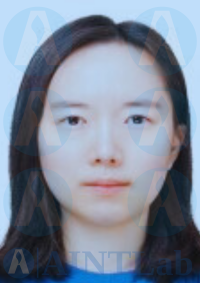
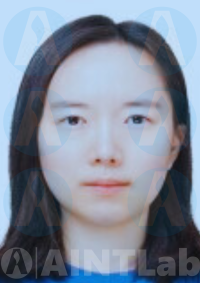
Replace images
Switched image assets and references from .webp and .jpg formats to .png for better compatibility and consistency across the site.

Changed region(s): [[0.0, 0.8763, 1.0, 0.9894]]

diff --git a/docusaurus.config.js b/docusaurus.config.js
@@ -51,7 +51,7 @@ const config = {
       {name: 'keywords', content: 'Applied Intelligence Lab, AINTLab, AI research publications, artificial intelligence papers, machine learning publications, deep learning research, IoT research, RFID in supply chain, sustainable agriculture papers, self-supervised learning, self-organizing maps, vessel detection, human action recognition, transformer models, agricultural technology research, AgriTech publications, predictive analytics papers, AI for agriculture, AI-powered innovation, scientific articles, AI in agriculture, academic publications, AI research, machine learning, deep learning, artificial intelligence lab, IoT, RFID, sustainable agriculture, satellite imagery, AI-powered solutions, food security, agricultural data analysis, AgriTech solutions, AI innovation, Applied INTelligence Lab (AINTLab), Department of Artificial Intelligence and Data Science, Sejong University, Seoul 05006, Republic of Korea'},
       {name: 'twitter:card', content: 'Applied INTelligence Lab (AINTLab) - AINTLab is not only a laboratory but also a playground to learn and explore things related to applied intelligence. We explore the frontier of artificial intelligence, data science, and intelligent systems. We design AI-driven solutions that connect systems, enhance communication, and promote sustainability. Through collaboration across academia and industry, we aim to build systems that shape a smarter, more connected world. AINTLab is a hub for learning and innovation in applied intelligence and IoT. Pioneering Artificial Intelligence research, AINTLab focuses on machine learning, deep learning, IoT, and self-supervised learning. Our expertise drives agricultural innovation, vessel detection, human action recognition, and predictive analytics, promoting sustainable agriculture and global food security. Explore our extensive collection of research publications on AI, machine learning, IoT, and sustainable agriculture, featuring groundbreaking work on transformer models, predictive analytics, and more.'},
       {name: 'description', content: 'Applied INTelligence Lab (AINTLab) - AINTLab is not only a laboratory but also a playground to learn and explore things related to applied intelligence. We explore the frontier of artificial intelligence, data science, and intelligent systems. We design AI-driven solutions that connect systems, enhance communication, and promote sustainability. Through collaboration across academia and industry, we aim to build systems that shape a smarter, more connected world. AINTLab is a hub for learning and innovation in applied intelligence and IoT. Pioneering Artificial Intelligence research, AINTLab focuses on machine learning, deep learning, IoT, and self-supervised learning. Our expertise drives agricultural innovation, vessel detection, human action recognition, and predictive analytics, promoting sustainable agriculture and global food security. Explore our extensive collection of research publications on AI, machine learning, IoT, and sustainable agriculture, featuring groundbreaking work on transformer models, predictive analytics, and more.'},
-      {name: 'og:image',content: 'https://aintlab.com/img/social-media.webp'},
+      {name: 'og:image',content: 'https://aintlab.com/img/aintlab-social-media.png'},
     
     ],
     headTags: [
@@ -107,8 +107,8 @@ const config = {
         title: '',
         logo: {
           alt: 'AINTLab is not only a laboratory but also a playground to learn and explore things related to applied intelligence. We explore the frontier of artificial intelligence, data science, and intelligent systems. We design AI-driven solutions that connect systems, enhance communication, and promote sustainability. Through collaboration across academia and industry, we aim to build systems that shape a smarter, more connected world.',
-          src: '/img/research.svg',
-          srcDark: '/img/research-dark.svg',
+          src: '/img/research.png',
+          srcDark: '/img/research-dark.png',
         },
         items: [
           {
@@ -150,7 +150,7 @@ const config = {
       },
       footer: {
         style: 'dark',
-        copyright: `<div class="navbar__logo"><img src="/img/research-dark.svg" alt="Applied INTelligence Lab (AINTLab)"></div>(🇰🇷) Applied INTelligence Lab (AINTLab), Seoul 05006, Republic of Korea | (🇮🇩) Applied INTelligence Lab (AINTLab), Yogyakarta 55187, Indonesia.
+        copyright: `(🇰🇷) Applied INTelligence Lab (AINTLab), Seoul 05006, Republic of Korea | (🇮🇩) Applied INTelligence Lab (AINTLab), Yogyakarta 55187, Indonesia.
         <br/>
         E-mail: hello [at] aintlab.com | Phone: 02-3408-1879<br/>
         <a href="/" style="color:white">Home</a> / <a href="/team" style="color:white">The Team</a> / <a href="/projects" style="color:white">Projects</a> / <a href="/publications" style="color:white">Publications</a> / <a href="/updates" style="color:white">Updates</a> / <a href="/contact" style="color:white">Contact</a> | Follow us on <a class="link" href="https://www.linkedin.com/company/aintlab" target="_blank" data-tippy-content="LinkedIn">
@@ -159,8 +159,8 @@ const config = {
               <path d="M20.447 20.452h-3.554v-5.569c0-1.328-.027-3.037-1.852-3.037-1.853 0-2.136 1.445-2.136 2.939v5.667H9.351V9h3.414v1.561h.046c.477-.9 1.637-1.85 3.37-1.85 3.601 0 4.267 2.37 4.267 5.455v6.286zM5.337 7.433c-1.144 0-2.063-.926-2.063-2.065 0-1.138.92-2.063 2.063-2.063 1.14 0 2.064.925 2.064 2.063 0 1.139-.925 2.065-2.064 2.065zm1.782 13.019H3.555V9h3.564v11.452zM22.225 0H1.771C.792 0 0 .774 0 1.729v20.542C0 23.227.792 24 1.771 24h20.451C23.2 24 24 23.227 24 22.271V1.729C24 .774 23.2 0 22.222 0h.003z"></path>
             </svg>
           </a><br/> 
-        Copyright © 2019-${new Date().getFullYear()} <a href="https://aintlab.com/" style="color:white">Applied INTelligence Lab (AINTLab)</a>; Lead by <a href="https://muhammadsyafrudin.com/" style="color:white"target="_blank">Muhammad Syafrudin</a>. Built with Docusaurus.
-        `,
+        Copyright © 2019-${new Date().getFullYear()} <a href="/" style="color:white">Applied INTelligence Lab (AINTLab)</a>; Lead by <a href="https://muhammadsyafrudin.com/" style="color:white"target="_blank">Muhammad Syafrudin</a>. Built with Docusaurus.
+        <div class="navbar__logo"><img src="/img/research-dark.png" alt="Applied INTelligence Lab (AINTLab)"></div>`,
       },
       prism: {
         theme: lightCodeTheme,

diff --git a/src/components/FeaturedPapers/index.js b/src/components/FeaturedPapers/index.js
@@ -7,7 +7,7 @@ import Link from '@docusaurus/Link';
 const FeatureList = [
   {
     title: 'FLTrans-Net: Transformer-based feature learning network for wheat head detection',
-    img_url: "img/wheat.webp",
+    img_url: "img/wheat.png",
     doi: "https://doi.org/10.1016/j.compag.2024.109706",
     outlet: "Published in Computers and Electronics in Agriculture (Elsevier, 2025) - SCIE (Q1); IF=8.9; Rank=2/94; IF(%)=1.6%.",
     description: (
@@ -22,7 +22,7 @@ const FeatureList = [
   },
   {
     title: 'AE-BPNN: autoencoder and backpropagation neural network-based model for lithium-ion battery state of health estimation',
-    img_url: "img/battery.webp",
+    img_url: "img/battery.png",
     doi: "https://doi.org/10.1038/s41598-025-12771-4",
     outlet: "Published in Scientific Reports (Nature Portfolio, 2025) - SCIE (Q1); IF=3.9; Rank=25/136; IF(%)=18.0%.",
     description: (
@@ -38,7 +38,7 @@ const FeatureList = [
   },
   {
     title: 'Tweeting Circular Economy: Unveiling Current Discourse Through Natural Language Processing',
-    img_url: "img/circulareconomy.webp",
+    img_url: "img/circulareconomy.png",
     doi: "https://doi.org/10.1002/sd.3323",
     outlet: "Published in Sustainable Development (Wiley, 2025) - SSCI (Q1); IF=9.9; Rank=1/63; IF(%)=0.8%.",
     description: (

diff --git a/src/components/LogoSlider/index.js b/src/components/LogoSlider/index.js
@@ -14,18 +14,18 @@ const LOGOS = [
   { src: '/img/logos/curtin.png', alt: 'Curtin' },
   { src: '/img/logos/ubd.png', alt: 'UBD' },
   { src: '/img/logos/undip.png', alt: 'UNDIP' },
-  { src: '/img/logos/dongguk.jpg', alt: 'Dongguk' },
+  { src: '/img/logos/dongguk.png', alt: 'Dongguk' },
   { src: '/img/logos/karabuk.png', alt: 'Karabuk' },
   { src: '/img/logos/itu.png', alt: 'ITU' },
   { src: '/img/logos/isu.png', alt: 'ISU' },
   { src: '/img/logos/gscwu.png', alt: 'GSCWU' },
-  { src: '/img/logos/hitec.jpg', alt: 'HITEC' },
+  { src: '/img/logos/hitec.png', alt: 'HITEC' },
   { src: '/img/logos/uinsuka.png', alt: 'UINSUKA' },
   { src: '/img/logos/bnu.png', alt: 'BNU' },
   { src: '/img/logos/ntust.png', alt: 'NTUST' },
-  { src: '/img/logos/kfueit.jpg', alt: 'kfueit' },
+  { src: '/img/logos/kfueit.png', alt: 'kfueit' },
   { src: '/img/logos/brin.png', alt: 'BRIN' },
-  { src: '/img/logos/aintlab.jpg', alt: 'AINTLab' },
+  { src: '/img/logos/aintlab.png', alt: 'AINTLab' },
 ];
 
 

diff --git a/src/components/CollaborateWithUs/index.js b/src/components/CollaborateWithUs/index.js
@@ -29,7 +29,7 @@ const MissionVisionList = [
       <>
       <em>Our collaboration map from the past five years.</em>
       <br/>
-      <Link to="https://sejong.elsevierpure.com/en/persons/muhammad-syafrudin/network-map#network-map-container"><img loading="lazy" alt="Our collaboration map from the past five years" src="/team/collaboration_map.webp" class="img_ev3q"/></Link>
+      <Link to="https://sejong.elsevierpure.com/en/persons/muhammad-syafrudin/network-map#network-map-container"><img loading="lazy" alt="Our collaboration map from the past five years" src="/team/collaboration_map.png" class="img_ev3q"/></Link>
       <p class="text--right"><em>If you are interested in collaborating with us, please <Link to="/contact">contact us.</Link></em></p>
       </>
     ),
